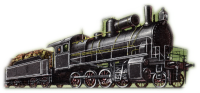
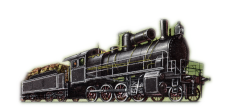
Better sizing of images

diff --git a/src/cards/Train.jsx b/src/cards/Train.jsx
@@ -66,7 +66,7 @@ const Train = ({ train, blackBand }) => {
         {(c,t) => (
           <Config>
             {config => (
-              <div className="card train">
+              <div className={`card train card--${config.cards.layout}`}>
                 <div className="card__bleed">
                   <div className="train__hr"
                        style={{
@@ -75,17 +75,15 @@ const Train = ({ train, blackBand }) => {
                        }}
                   />
                   <div className="card__body">
-                    <React.Fragment>
-                      <div className="train__name" style={{ color: t(c(color)) }}>{name}</div>
-                      <div className="train__price" style={{ color: t(c(color)) }}>
-                        <Currency value={price} type="train"/>
-                      </div>
-                      <div className="train__description">{description}</div>
-                      <div className="train__notes">{notes}</div>
-                      {config.cards.trainImages && (
-                        <div className="train__image"><img alt={`${color} train`} src={image}/></div>
-                      )}
-                    </React.Fragment>
+                    {config.cards.trainImages && (
+                      <div className="train__image"><img alt={`${color} train`} src={image}/></div>
+                    )}
+                    <div className="train__name" style={{ color: t(c(color)) }}>{name}</div>
+                    <div className="train__price" style={{ backgroundColor: c(color), color: t(c(color)) }}>
+                      <Currency value={price} type="train"/>
+                    </div>
+                    {description && <div className="train__description">{description}</div>}
+                    <div className="train__notes">{notes}</div>
                   </div>
                 </div>
               </div>

diff --git a/src/cards/train.scss b/src/cards/train.scss
@@ -21,9 +21,9 @@
   position: absolute;
   top: 0;
   right: 0;
-  width: 100%;
-  height: 0.6875in;
-  padding: 0.125in;
+  padding: 0.125in 0.125in 0.03125in 0.03125in;
+  border-radius: 0 0 0 0.0625in;
+
   font-size: 0.25in;
   line-height: 1;
   box-sizing: border-box;
@@ -58,15 +58,16 @@
 
 .train__description {
   position: relative;
-  height: 0.4375in;
-  width: 100%;
-  padding: 0.0625in 0.125in;
+  padding: 0.03125in 0.125in 0.03125in 0.03125in;
+  float: right;
   box-sizing: border-box;
   text-align: right;
   font-family: sans-serif;
   font-size: 0.12in;
   font-weight: normal;
   line-height: 0.16in;
+  background-color: #ffffffb0;
+  border-radius: 0 0 0 0.125in;
 }
 
 .train__notes {
@@ -96,7 +97,13 @@
 }
 
 .train__image {
+  box-sizing: border-box;
   position: absolute;
-  top: 26px;
-  left: 5px;
+  top: 0.25in;
+  width: 100%;
+
+  img {
+    width: 72%;
+    padding-left: 3%;
+  }
 }
